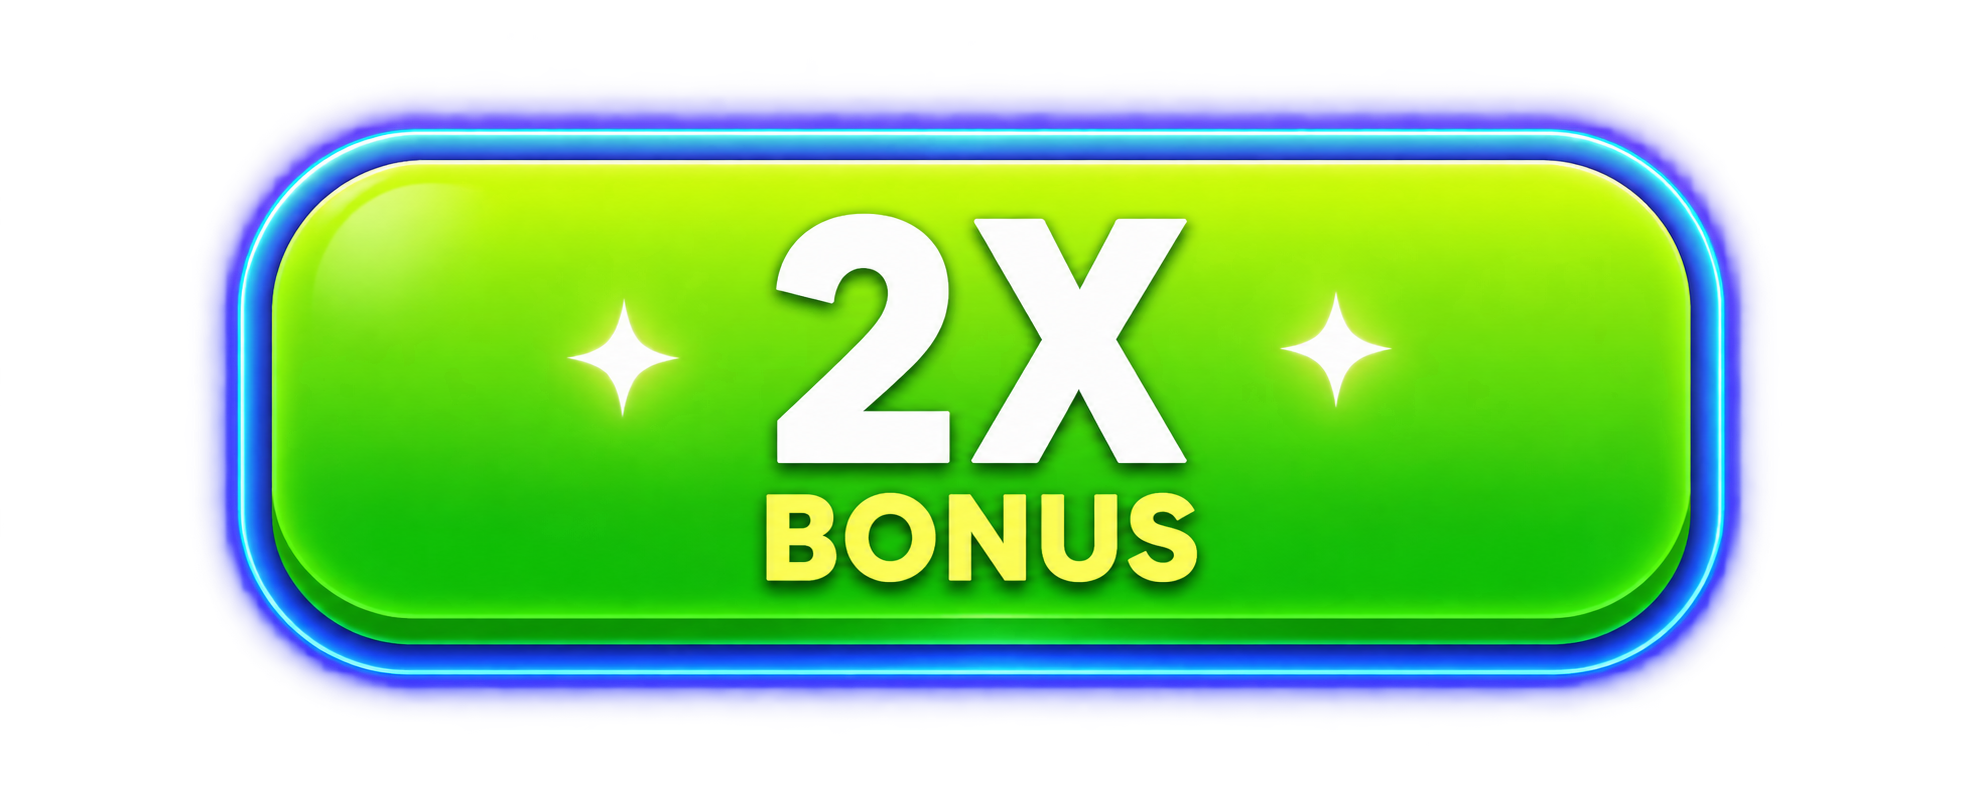
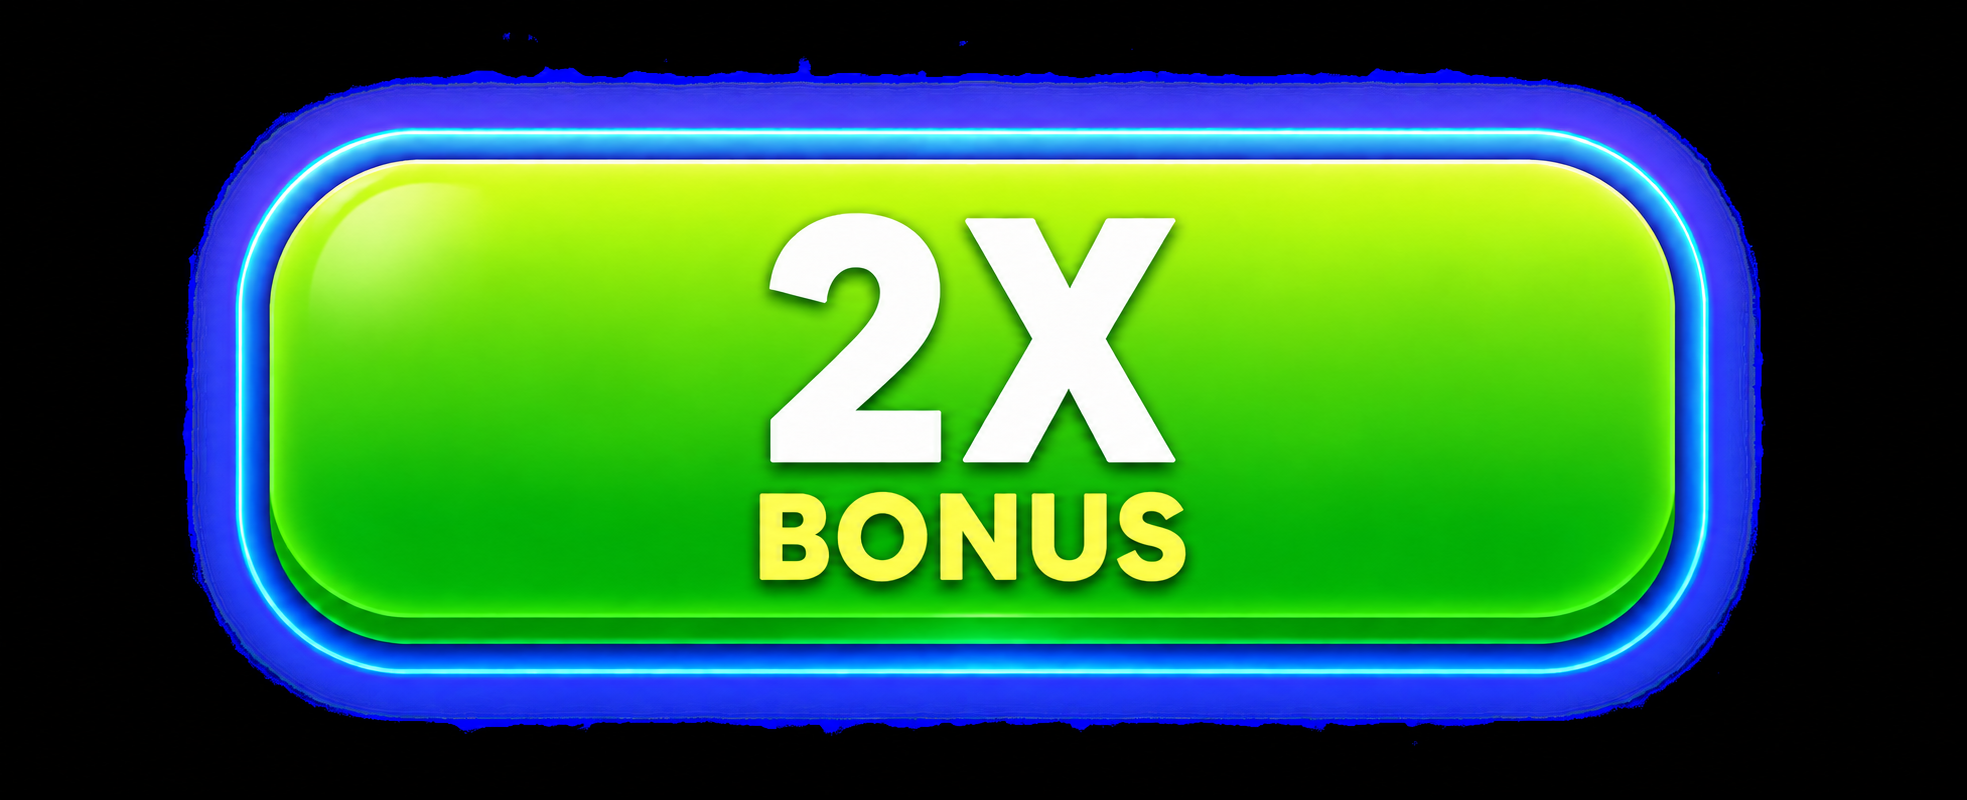
Replace static white stars with gently drifting glints

diff --git a/Assets/Scripts/BalloonDogModernUI.cs b/Assets/Scripts/BalloonDogModernUI.cs
@@ -1578,40 +1578,15 @@ public sealed class BalloonDogModernUI : MonoBehaviour
             new Vector2(390f, -980f), new Vector2(520f, 340f), -5f, 0.17f,
             8f, 9f, 21f, 0.87f);
 
-        CreateResultSparkle(
-            layer, new Vector2(-455f, 655f), 34f,
-            new Color(0.90f, 0.82f, 1f, 0.90f));
-        CreateResultSparkle(
-            layer, new Vector2(450f, 690f), 42f,
-            new Color(0.94f, 0.88f, 1f, 0.94f));
-        CreateResultSparkle(
-            layer, new Vector2(-480f, -740f), 20f,
-            new Color(0.82f, 0.91f, 1f, 0.72f));
-        CreateResultSparkle(
-            layer, new Vector2(470f, -680f), 22f,
-            new Color(0.82f, 0.91f, 1f, 0.72f));
-    }
-
-    private static void CreateResultSparkle(
-        Transform parent,
-        Vector2 position,
-        float size,
-        Color color)
-    {
-        CreateImage(
-            parent,
-            "SparkleVertical",
-            position,
-            new Vector2(size * 0.24f, size),
-            color,
-            false);
-        CreateImage(
-            parent,
-            "SparkleHorizontal",
-            position,
-            new Vector2(size, size * 0.24f),
-            color,
-            false);
+        // Replace the old static white cross shapes with drifting glints.
+        CreateResultGlint(layer, "ResultStarTopLeft",
+            new Vector2(-455f, 655f), 42f, 0.4f, false);
+        CreateResultGlint(layer, "ResultStarTopRight",
+            new Vector2(450f, 690f), 48f, 1.6f, false);
+        CreateResultGlint(layer, "ResultStarBottomLeft",
+            new Vector2(-480f, -740f), 30f, 2.4f, false);
+        CreateResultGlint(layer, "ResultStarBottomRight",
+            new Vector2(470f, -680f), 32f, 3.1f, false);
     }
 
     private void BuildPauseScreen()

diff --git a/Assets/Scripts/BalloonDogBonusPressFeedback.cs b/Assets/Scripts/BalloonDogBonusPressFeedback.cs
@@ -58,6 +58,7 @@ public sealed class BalloonDogStarGlint : MonoBehaviour
     private float phase;
     private bool bonusStar;
     private float burstUntil;
+    private Vector2 origin;
 
     public static Sprite Sprite
     {
@@ -102,6 +103,7 @@ public sealed class BalloonDogStarGlint : MonoBehaviour
     {
         image = GetComponent<Image>();
         rect = GetComponent<RectTransform>();
+        origin = rect.anchoredPosition;
     }
 
     private void Update()
@@ -116,5 +118,11 @@ public sealed class BalloonDogStarGlint : MonoBehaviour
         image.color = new Color(1f, 0.94f, 0.62f, glow);
         rect.localScale = Vector3.one *
             (0.86f + 0.20f * wave + 0.26f * accent + 0.22f * burst);
+        // Two slow frequencies per axis give each star a small diagonal drift.
+        float x = Mathf.Sin(t * 0.83f + phase * 1.7f) * 7f +
+            Mathf.Sin(t * 1.31f + phase) * 3f;
+        float y = Mathf.Cos(t * 0.69f + phase * 2.1f) * 6f +
+            Mathf.Sin(t * 1.17f + phase * 0.7f) * 3f;
+        rect.anchoredPosition = origin + new Vector2(x, y);
     }
 }
